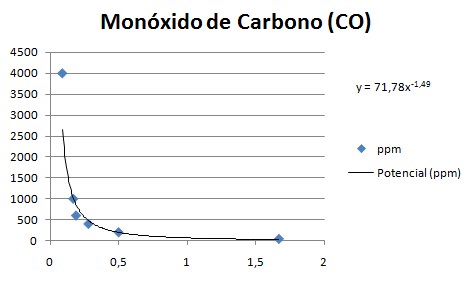
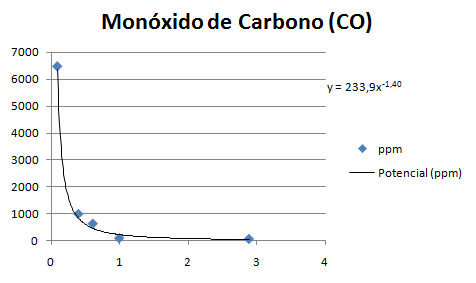
Monóxido de Carbono fórmula reajustada

diff --git a/calculos/CALCULOS.md b/calculos/CALCULOS.md
@@ -27,11 +27,11 @@ Rs/Ro | mg/L
 
 - Expresión:
 ```
-y = 1,108x-1,41  
+	y = 1,108x-1,41  
 ```
 - Código:
 ```arduino
-double Alcohol = 1,108*pow(mq3_resistencia/5463, -1,41);
+	double Alcohol = 1,108*pow(mq3_resistencia/5463, -1,41);
 ```
 
 
@@ -60,11 +60,11 @@ Rs/Ro | ppm
 
 - Expresión:
 ```
-y = 8555,x-1,74
+	y = 8555,x-1,74
 ```
 - Código:
 ```arduino
-double glp = 8555*pow(mq2_resistencia/5463, -1,74);
+	double glp = 8555*pow(mq2_resistencia/5463, -1,74);
 ```
 
 
@@ -86,11 +86,11 @@ Rs/Ro | ppm
 
 - Expresión:
 ```
-y = 6922,x-1,91
+	y = 6922,x-1,91
 ```
 - Código:
 ```arduino
-double metano = 6922*pow(mq4_resistencia/5463, -1,91);
+	double metano = 6922*pow(mq4_resistencia/5463, -1,91);
 ```
 
 ### Propano
@@ -118,11 +118,11 @@ Rs/Ro | ppm
 
 - Expresión:
 ```
-y = 2738,x-1,81 
+	y = 2738,x-1,81 
 ```
 - Código:
 ```arduino
-double propano = 2738*pow(mq6_resistencia/5463, -1,81);
+	double propano = 2738*pow(mq6_resistencia/5463, -1,81);
 ```
 
 
@@ -134,23 +134,23 @@ double propano = 2738*pow(mq6_resistencia/5463, -1,81);
 
 Rs/Ro | ppm
 ------------ | -------------
-0,09 | 4000
-0,17 | 1000
-0,19 | 600
-0,28 | 400
-0,5 | 200
-1,6666 | 40
+0,096 | 6464,285
+0,405 | 1000
+0,614 | 640
+1 | 100
+2,894 | 73,214
+
 
 
 **Ecuación potencial**
 
 - Expresión:
 ```
-y = 71,78x-1,49 
+	y = 233,9x-1,40 
 ```
 - Código:
 ```arduino
-	double monoxidoDeCarbono = 71.781*pow(mq7_resistencia/5463, -1.49);
+	double monoxidoDeCarbono = 233,9*pow(mq7_resistencia/5463, -1,40);
 ```
   
 
